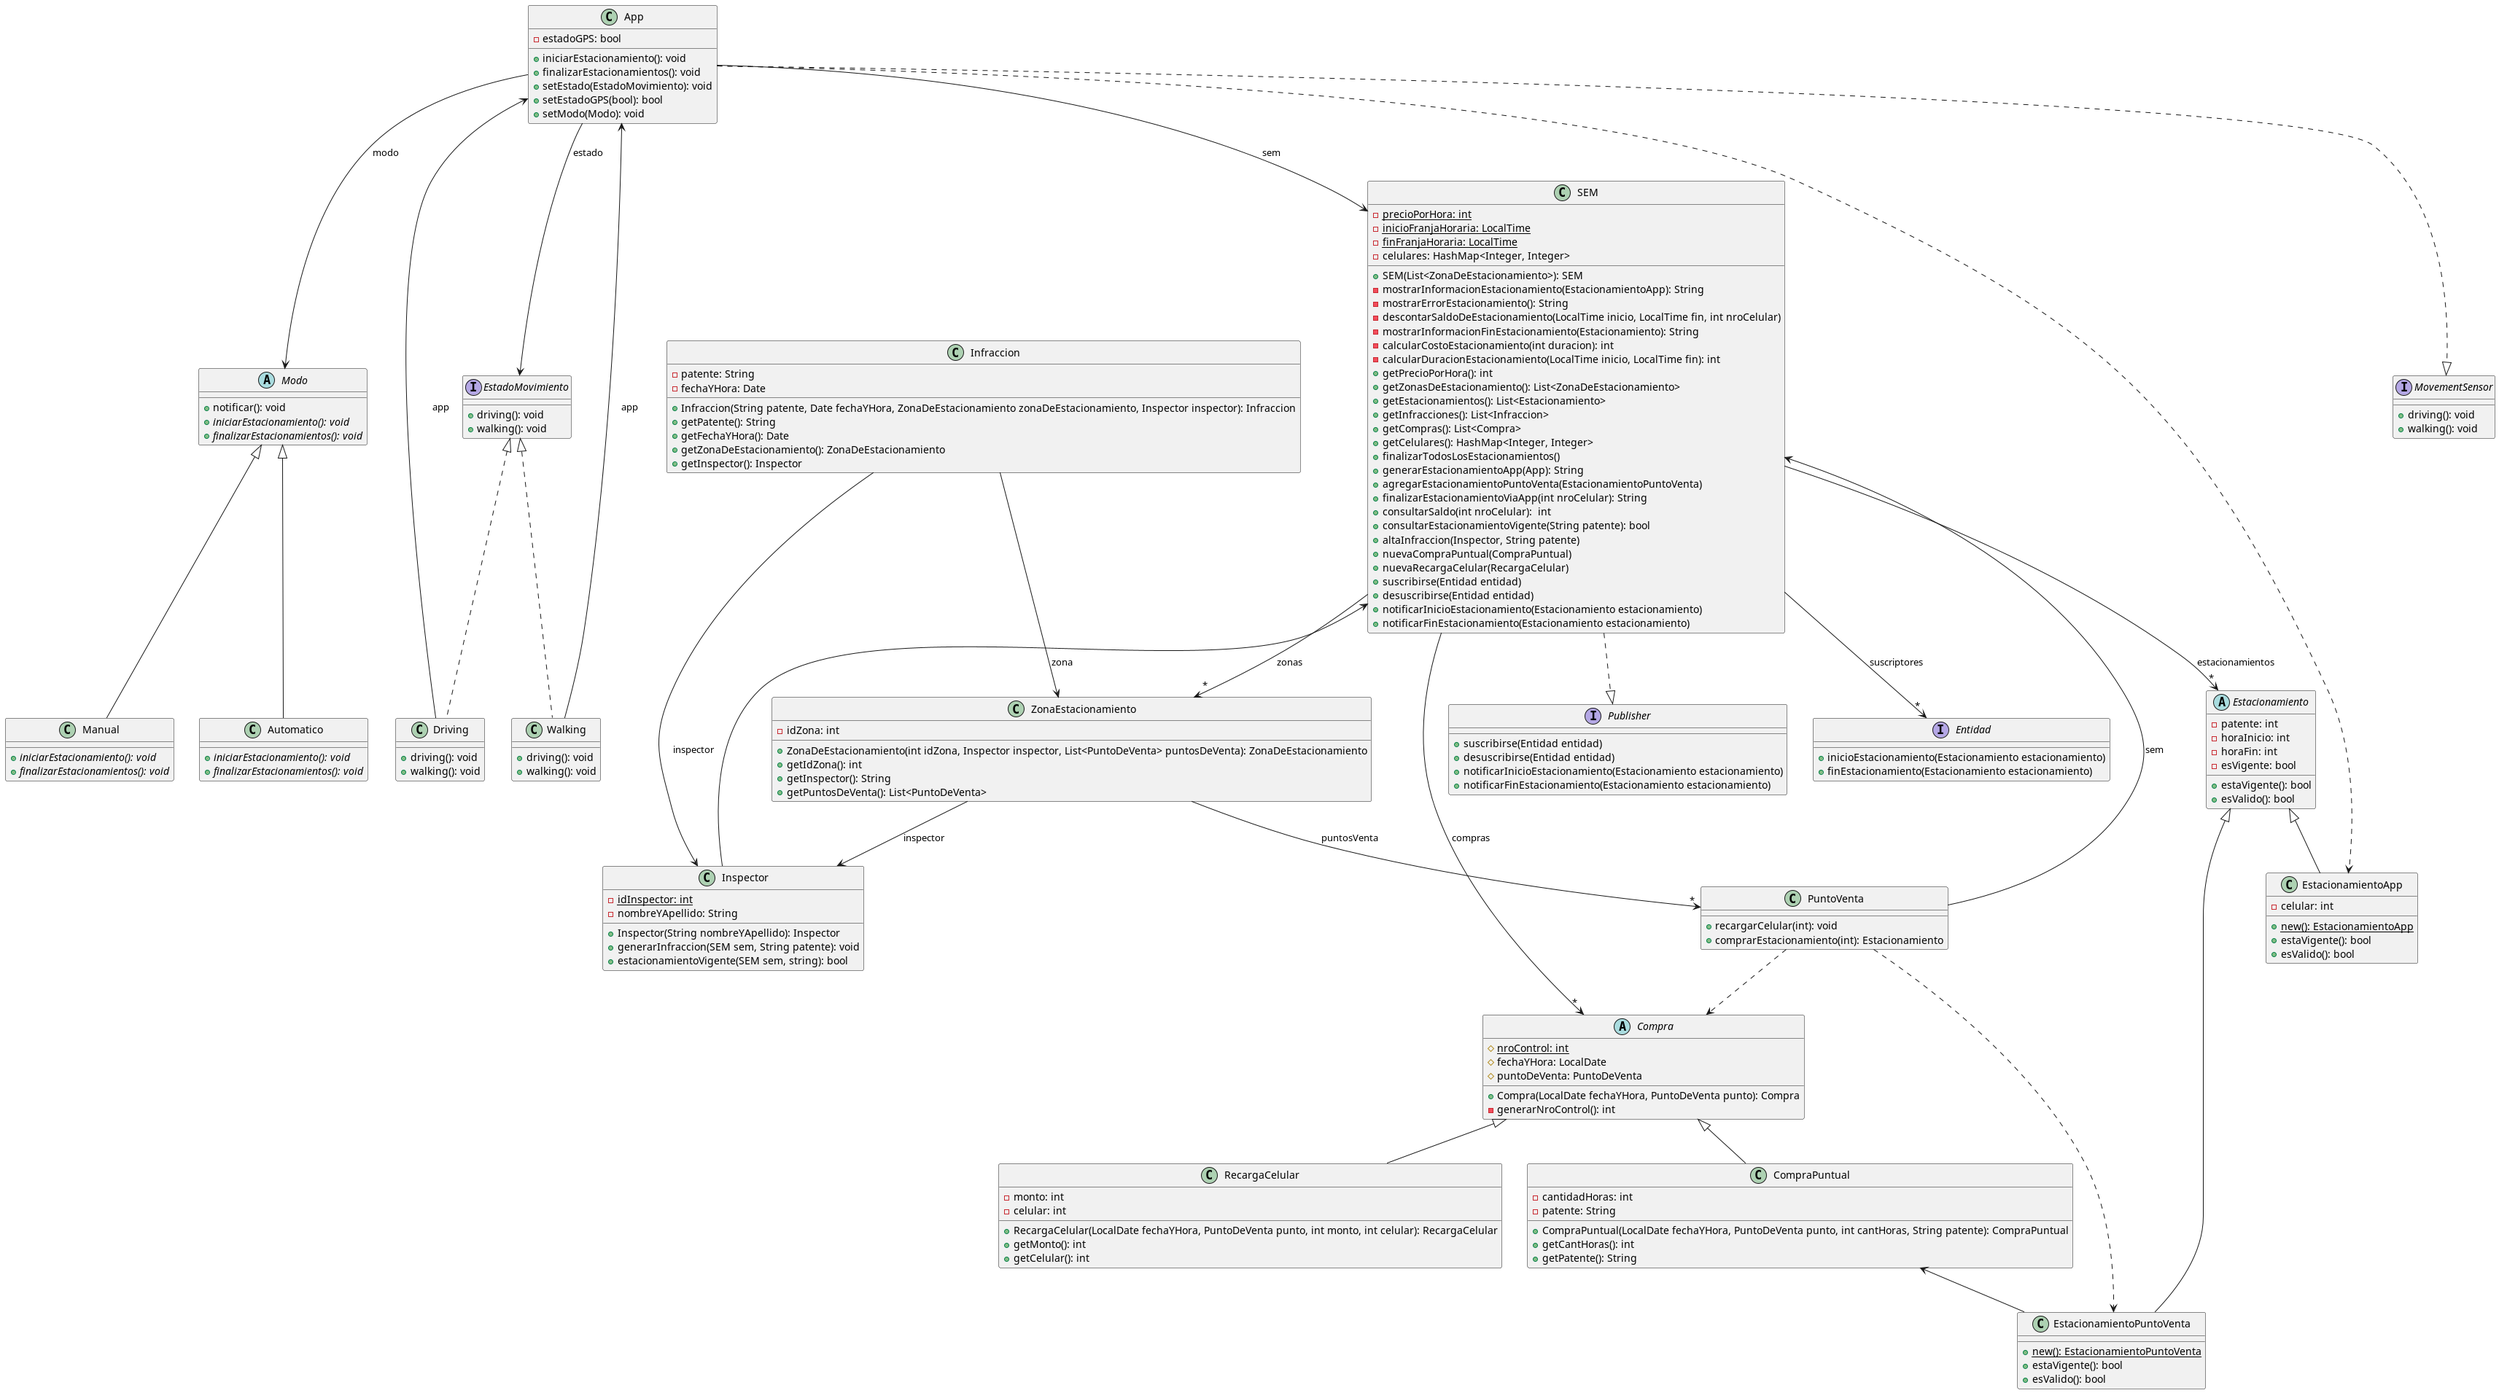
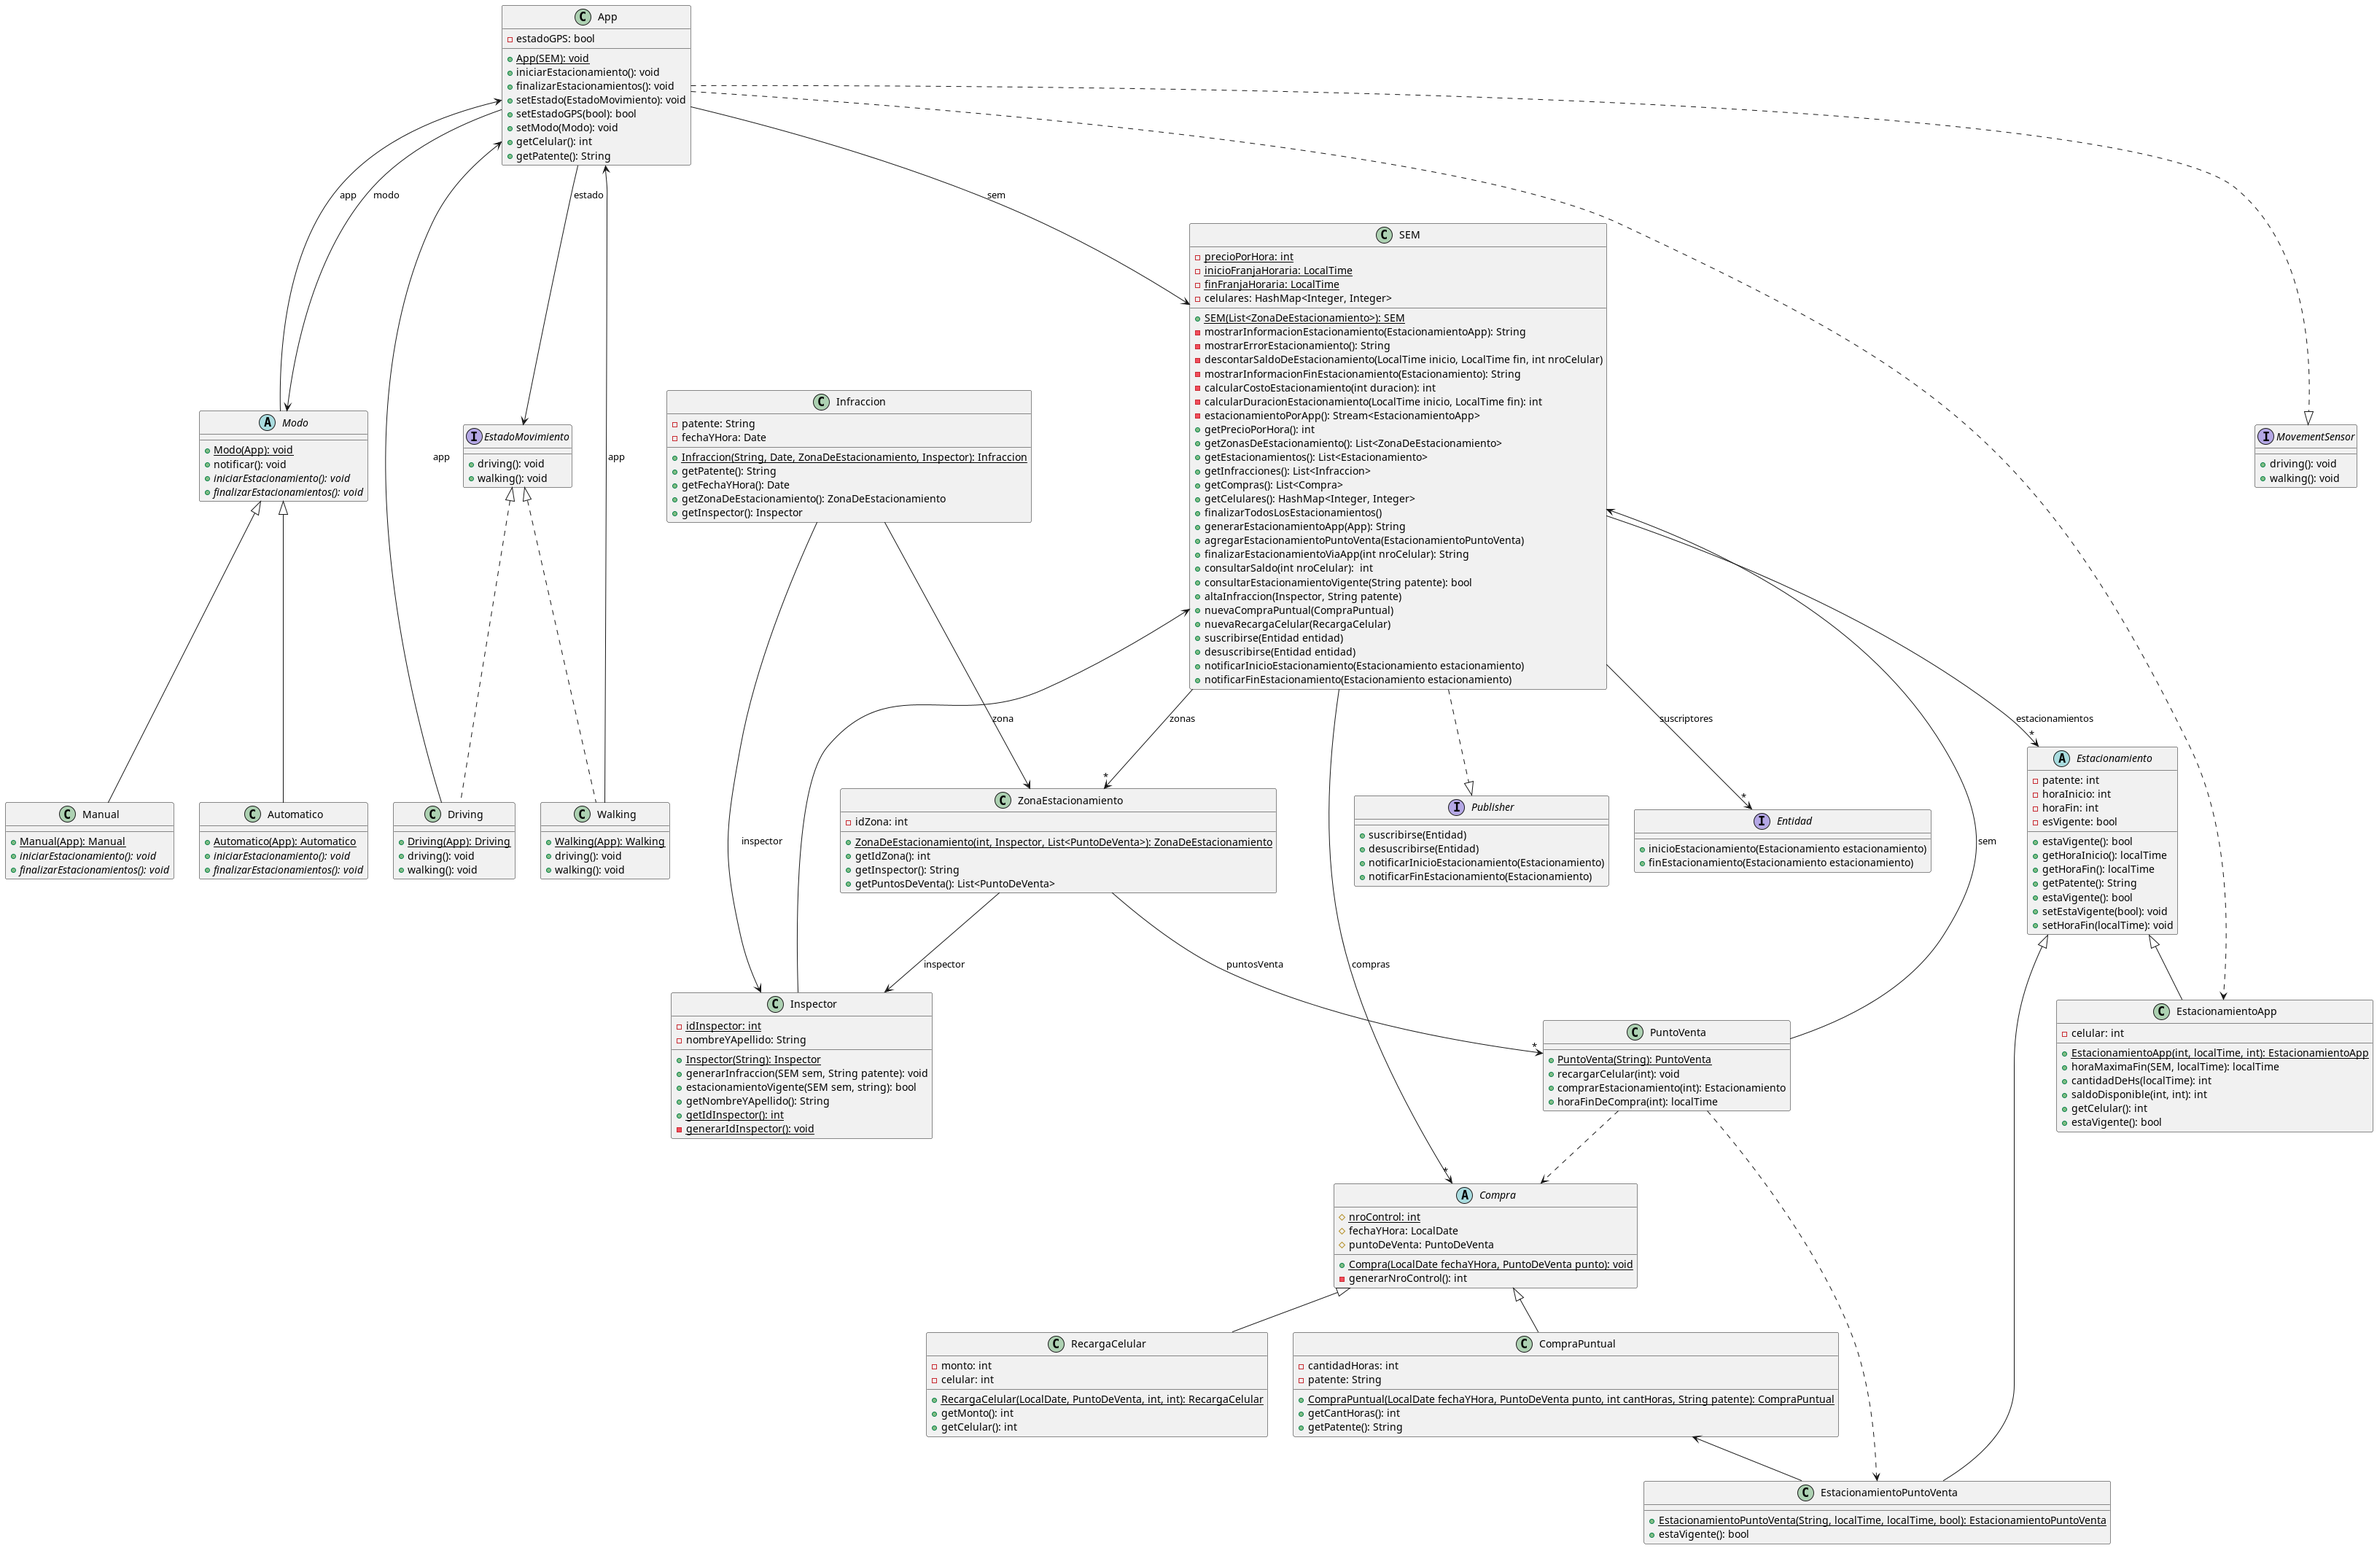
Last minute changes :-)

diff --git a/src/ar/edu/unq/po2/sem/SEM.java b/src/ar/edu/unq/po2/sem/SEM.java
@@ -58,7 +58,7 @@ public class SEM implements Publisher{
 	
 	public void finalizarTodosLosEstacionamientos() {
 		List<Estacionamiento> estacionamientosVigentes = this.estacionamientos.stream().filter(estacionamiento -> estacionamiento.estaVigente()).toList();
-		estacionamientosVigentes.stream().forEach(estacionamiento -> estacionamiento.setEsVigente(false));
+		estacionamientosVigentes.stream().forEach(estacionamiento -> estacionamiento.setEstaVigente(false));
 	}
 	
 	public String generarEstacionamientoApp(App app) {

diff --git a/src/ar/edu/unq/po2/sem/Estacionamiento.java b/src/ar/edu/unq/po2/sem/Estacionamiento.java
@@ -31,8 +31,4 @@ public abstract class Estacionamiento {
 	public void setHoraFin(LocalTime horaFin) {
 		this.horaFin = horaFin;
 	}
-
-	public void setEsVigente(boolean esVigente) {
-		this.esVigente = esVigente;
-	}
 }
